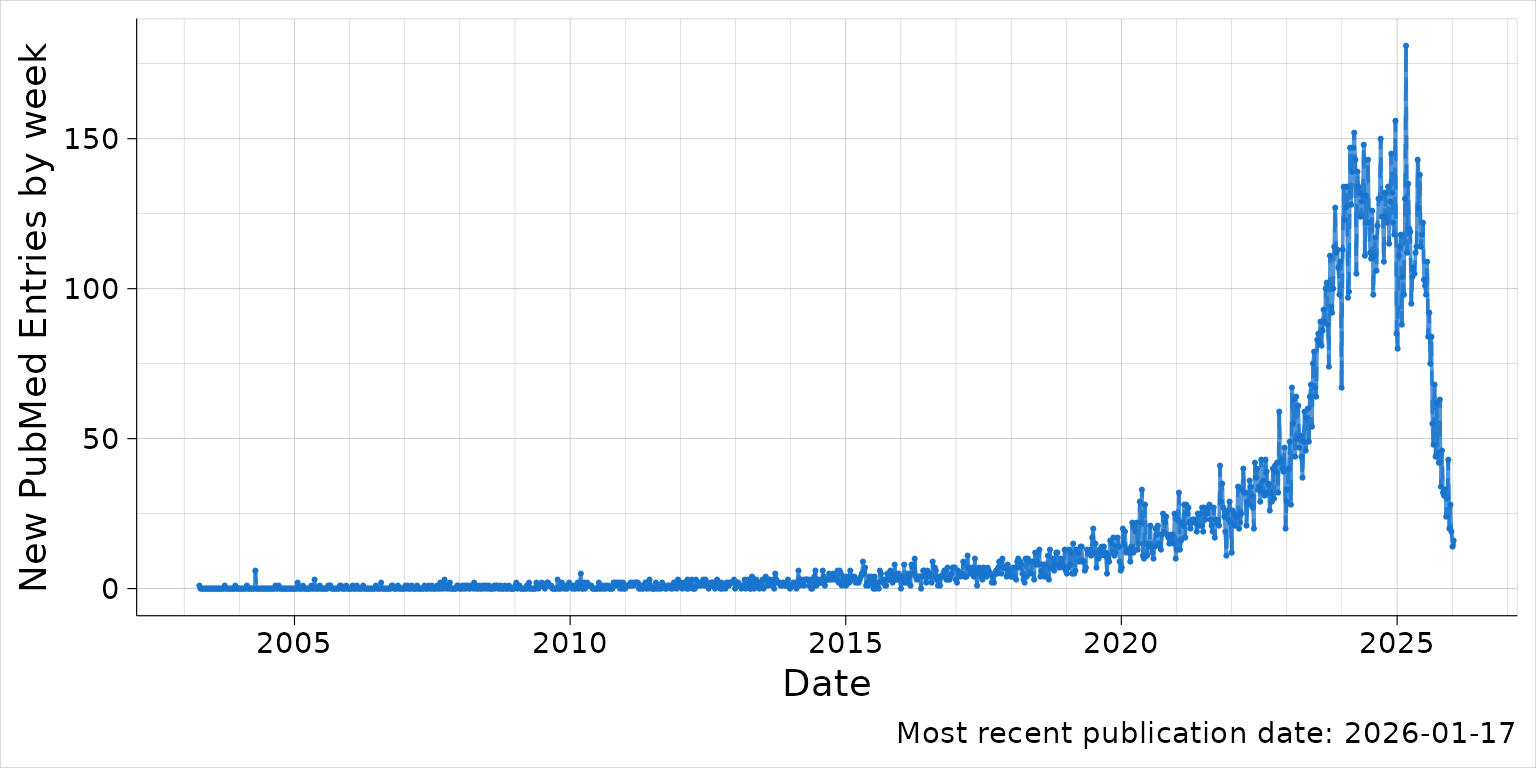
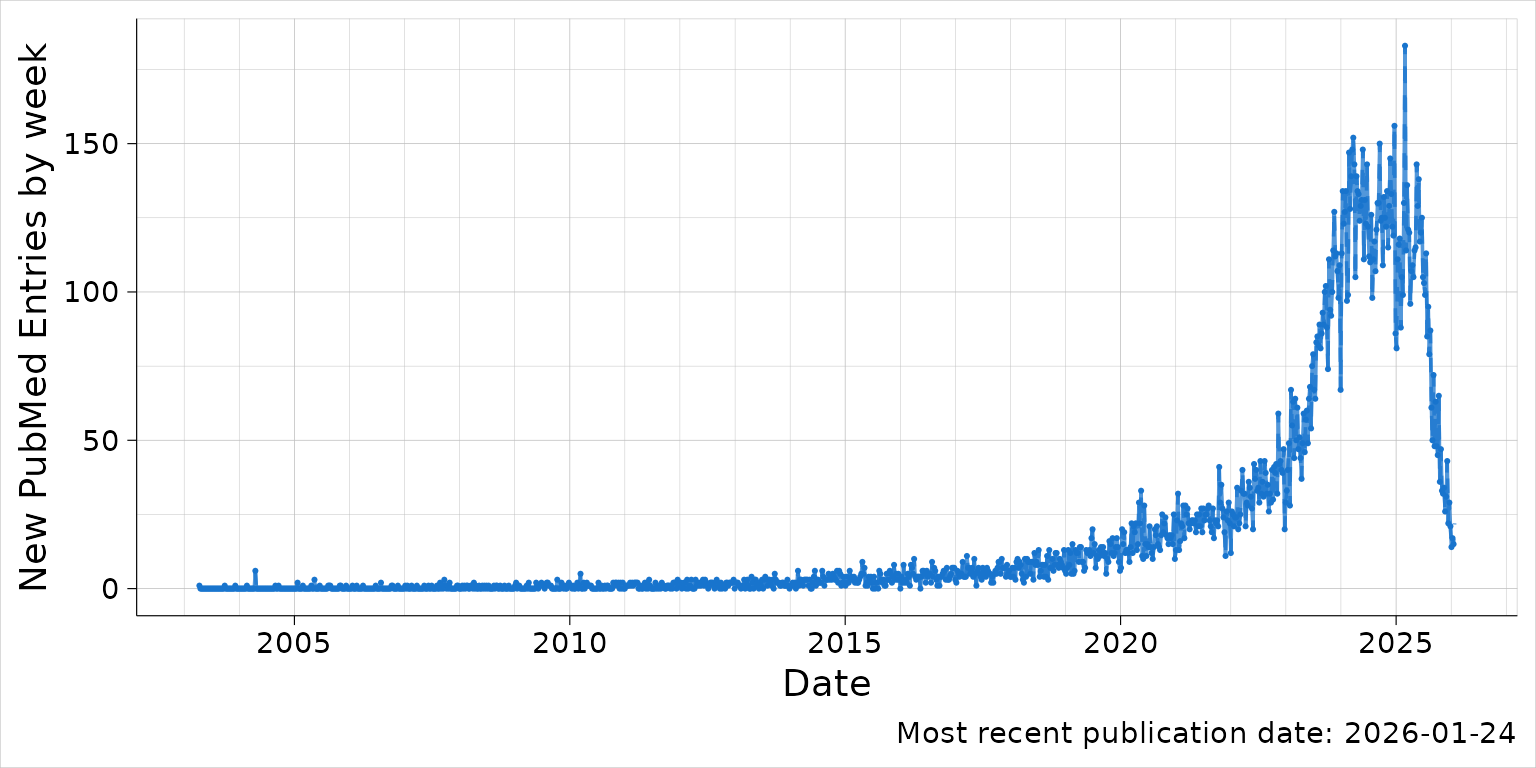
Deploying to gh-pages from @ explodecomputer/PubmedPlot@068eacdf5acdc66ea1c8a3d5640505ac4a8cb4ee 🚀

diff --git a/articles/mr.html b/articles/mr.html
@@ -199,7 +199,7 @@
 <span><span class="co">#&gt; Fetching records 6001 to 6435 </span></span>
 <span><span class="co">#&gt; Searching for year: 2025 </span></span>
 <span><span class="co">#&gt; Search term: "Mendelian randomisation" [tiab] OR "Mendelian randomization" [tiab] AND ("2025/01/01"[dp] : "2025/12/31"[dp]) </span></span>
-<span><span class="co">#&gt; Found 7082 articles matching the search term.</span></span>
+<span><span class="co">#&gt; Found 7090 articles matching the search term.</span></span>
 <span><span class="co">#&gt; Fetching records 1 to 500 </span></span>
 <span><span class="co">#&gt; Fetching records 501 to 1000 </span></span>
 <span><span class="co">#&gt; Fetching records 1001 to 1500 </span></span>
@@ -214,11 +214,12 @@
 <span><span class="co">#&gt; Fetching records 5501 to 6000 </span></span>
 <span><span class="co">#&gt; Fetching records 6001 to 6500 </span></span>
 <span><span class="co">#&gt; Fetching records 6501 to 7000 </span></span>
-<span><span class="co">#&gt; Fetching records 7001 to 7082 </span></span>
+<span><span class="co">#&gt; Fetching records 7001 to 7090 </span></span>
 <span><span class="co">#&gt; Searching for year: 2026 </span></span>
 <span><span class="co">#&gt; Search term: "Mendelian randomisation" [tiab] OR "Mendelian randomization" [tiab] AND ("2026/01/01"[dp] : "2026/12/31"[dp]) </span></span>
-<span><span class="co">#&gt; Found 353 articles matching the search term.</span></span>
-<span><span class="co">#&gt; Fetching records 1 to 353</span></span>
+<span><span class="co">#&gt; Found 523 articles matching the search term.</span></span>
+<span><span class="co">#&gt; Fetching records 1 to 500 </span></span>
+<span><span class="co">#&gt; Fetching records 501 to 523</span></span>
 <span><span class="co"># write_json(a, "pubmed_abstracts.json", pretty=TRUE)</span></span>
 <span><span class="va">b</span> <span class="op">&lt;-</span> <span class="fu"><a href="../reference/group_by_time_interval.html">group_by_time_interval</a></span><span class="op">(</span><span class="va">a</span><span class="op">)</span></span>
 <span><span class="va">p</span> <span class="op">&lt;-</span> <span class="fu"><a href="../reference/plot_time_interval.html">plot_time_interval</a></span><span class="op">(</span><span class="va">b</span><span class="op">)</span></span></code></pre></div>

diff --git a/articles/mr.md b/articles/mr.md
@@ -137,7 +137,7 @@ a <- PubmedPlot::search_term_by_year('"Mendelian randomisation" [tiab] OR "Mende
 #> Fetching records 6001 to 6435 
 #> Searching for year: 2025 
 #> Search term: "Mendelian randomisation" [tiab] OR "Mendelian randomization" [tiab] AND ("2025/01/01"[dp] : "2025/12/31"[dp]) 
-#> Found 7082 articles matching the search term.
+#> Found 7090 articles matching the search term.
 #> Fetching records 1 to 500 
 #> Fetching records 501 to 1000 
 #> Fetching records 1001 to 1500 
@@ -152,11 +152,12 @@ a <- PubmedPlot::search_term_by_year('"Mendelian randomisation" [tiab] OR "Mende
 #> Fetching records 5501 to 6000 
 #> Fetching records 6001 to 6500 
 #> Fetching records 6501 to 7000 
-#> Fetching records 7001 to 7082 
+#> Fetching records 7001 to 7090 
 #> Searching for year: 2026 
 #> Search term: "Mendelian randomisation" [tiab] OR "Mendelian randomization" [tiab] AND ("2026/01/01"[dp] : "2026/12/31"[dp]) 
-#> Found 353 articles matching the search term.
-#> Fetching records 1 to 353
+#> Found 523 articles matching the search term.
+#> Fetching records 1 to 500 
+#> Fetching records 501 to 523
 # write_json(a, "pubmed_abstracts.json", pretty=TRUE)
 b <- group_by_time_interval(a)
 p <- plot_time_interval(b)
